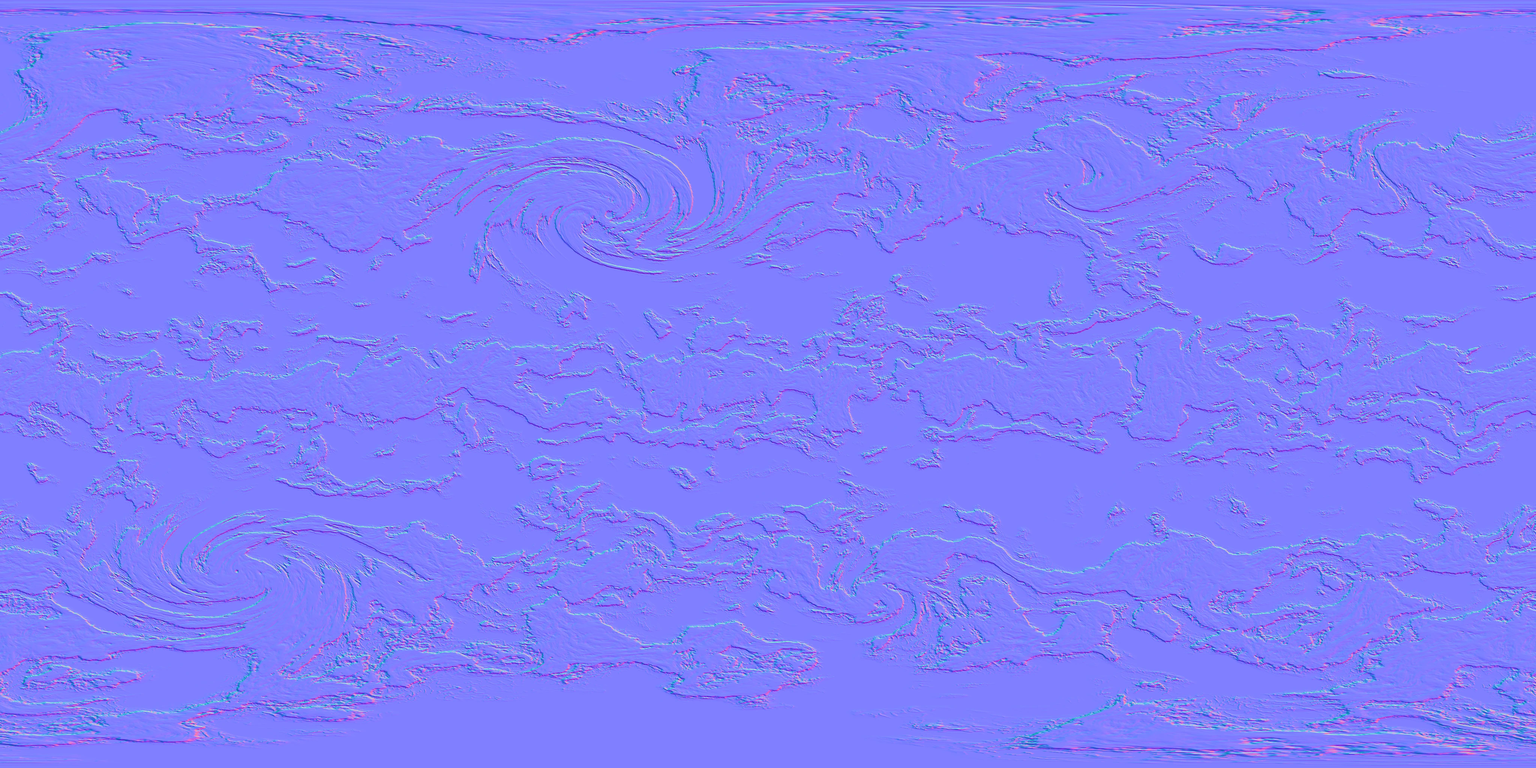
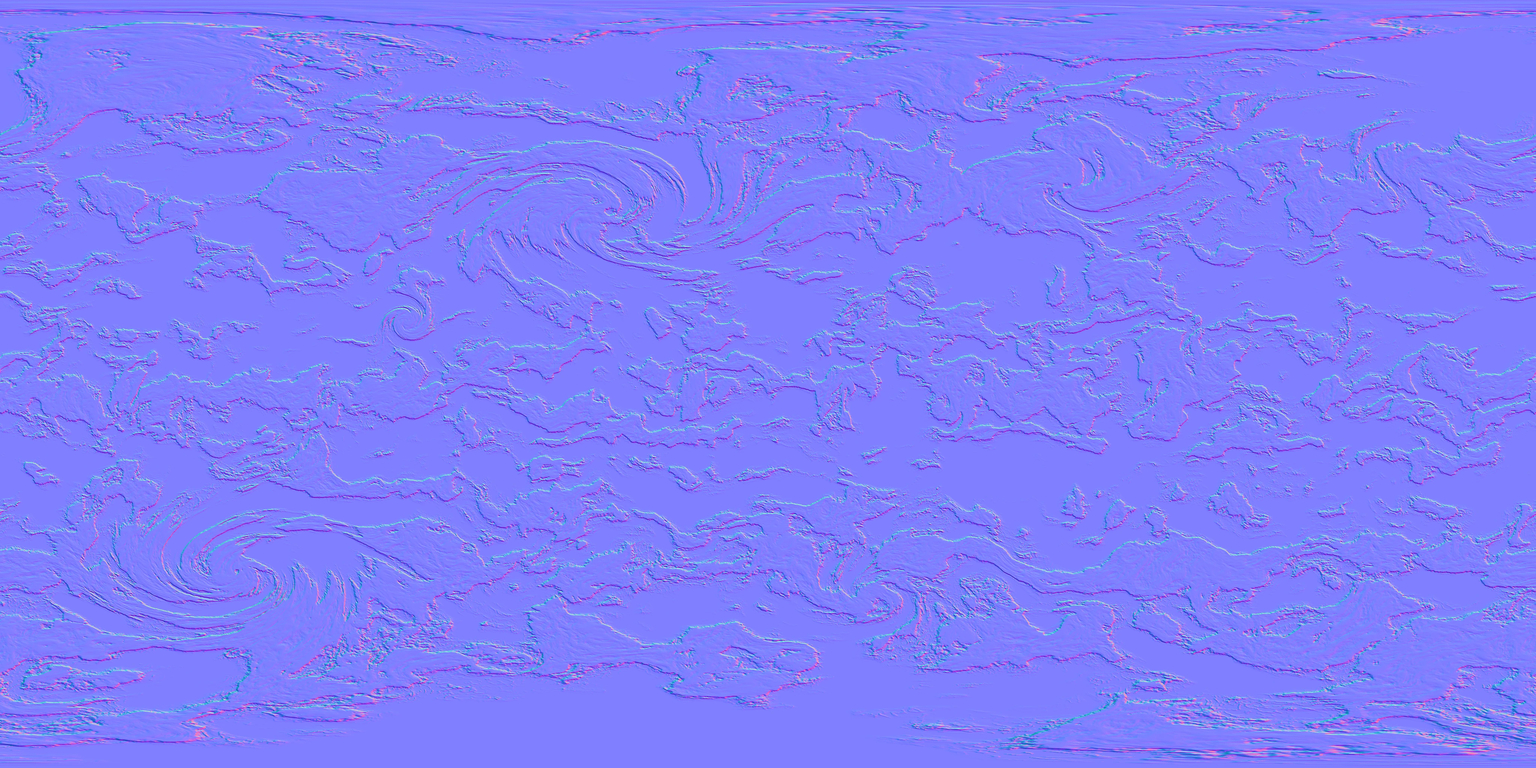
Clouds: wandering, softer zones; equatorial thunderstorm clusters; a looser northern low; a round tropical storm
Claude-Session: https://claude.ai/code/session_01K8R5kqduobr76DoBg9xGr3

diff --git a/tools/planets/clouds.py b/tools/planets/clouds.py
@@ -63,11 +63,14 @@ def arc_distance(p: np.ndarray, a: tuple[float, float], b: tuple[float, float]):
     return dist, np.clip(from_a / length, 0, 1)
 
 
-def zones(lat: np.ndarray) -> np.ndarray:
+def zones(lat: np.ndarray, clusters: np.ndarray) -> np.ndarray:
     """Earth-like circulation: a cloudy band at the equator, clearer subtropics (the calm
-    high-pressure belts near 25°), and stormy mid-latitudes."""
+    high-pressure belts near 25°), and stormy mid-latitudes. These are averages, not what any
+    one day looks like, so the caller lets `lat` wander; the equatorial band comes in
+    thunderstorm clusters with gaps between them."""
     a = np.abs(lat)
-    return 0.25 * np.exp(-((lat / 7) ** 2)) - 0.2 * np.exp(-(((a - 25) / 8) ** 2)) + 0.15 * np.exp(-(((a - 50) / 10) ** 2))
+    equator = 0.25 * np.exp(-((lat / 8) ** 2)) * (0.2 + 1.6 * clusters)
+    return equator - 0.2 * np.exp(-(((a - 25) / 9) ** 2)) + 0.15 * np.exp(-(((a - 50) / 12) ** 2))
 
 
 def make_clouds(g, seed: int, cover: float, storms: list[dict], veil: tuple[float, float] = (0.0, 0.0), zoning: float = 0.0, log=print):
@@ -77,7 +80,8 @@ def make_clouds(g, seed: int, cover: float, storms: list[dict], veil: tuple[floa
 
     Each storm: lat, lon, ax, ay (its extent, degrees), swirl (turn at the centre, radians:
     + anticlockwise), and optionally inflow (how tightly the arms wind), strength (how much
-    cloud it gathers), eye (how clear its centre is), face (direction of its cloud shield, radians)
+    cloud it gathers), eye (how clear its centre is), face (direction of its cloud shield, radians), round
+    (a symmetric tropical storm, not a comma)
     and front: the (lat, lon) the trailing cold front reaches."""
     n = [Noise3(seed * 7 + i) for i in range(8)]
     lat = np.degrees(g.lat)
@@ -94,13 +98,18 @@ def make_clouds(g, seed: int, cover: float, storms: list[dict], veil: tuple[floa
     warp = np.stack([fbm(n[0], q * 2.5 + 3, 4), fbm(n[1], q * 2.5 + 9, 4), fbm(n[2], q * 2.5 + 17, 4)], -1)
 
     # Weather systems: where cloud gathers at all.
-    raw = fbm(n[3], qz * 3.2 + warp * 1.6, octaves=6) + zoning * zones(lat) / 0.25
+    # The zones' edges wander by several degrees, and storms and fronts cut across them.
+    wander = lat + 28 * fbm(n[1], g.xyz * 1.6 + 40, 3)
+    clusters = smoothstep(-0.05, 0.3, fbm(n[2], q * 7 + warp + 60, 4))
+    raw = fbm(n[3], qz * 3.2 + warp * 1.6, octaves=6) + zoning * zones(wander, clusters) / 0.25
     rough = fbm(n[6], q * 12 + warp * 2, 4)
     for s in storms:
         # A comma, not a pinwheel: the cloud shield wraps one side, a dry slot cuts the other.
         d, _ = storm_coords(q, s)
         c, east, north = tangent_basis(s["lat"], s["lon"])
         side = 0.5 + 0.5 * np.cos(np.arctan2(q @ north, q @ east) - s.get("face", 0.0))
+        if s.get("round"):  # a tropical storm is symmetric, cloud all the way round
+            side = np.ones_like(side)
         k = s.get("strength", 1.0)
         raw = raw + k * (0.22 * np.exp(-(d**2) * 1.8) * (0.3 + 0.7 * side) - 0.15 * np.exp(-(d**2) * 4) * (1 - side))
         raw = raw - 0.4 * s.get("eye", 1.0) * np.exp(-((d / 0.06) ** 2))

diff --git a/tools/planets/hyang_wan.py b/tools/planets/hyang_wan.py
@@ -249,16 +249,19 @@ def hyang_clouds(g):
     """Rain bands wound into a few cyclones, over a thin grey overcast ("everything is greyed
     out") that dulls the islands without hiding them."""
     # Storms at different stages along the mid-latitude storm tracks: mature commas trailing
-    # cold fronts, young waves just kinking a front, an old one unwinding. A mature one sits
+    # cold fronts (looser than a hurricane), young waves just kinking a front, an old one
+    # unwinding, and one tropical storm. A mature one sits
     # north-west of Mulgogi, in view. Positive swirl turns anticlockwise (the north's cyclones).
     storms = [
-        dict(lat=40, lon=-38, ax=24, ay=17, swirl=2.0, face=0.8, front=(16, -64)),
+        dict(lat=40, lon=-38, ax=26, ay=16, swirl=1.6, inflow=0.7, face=0.8, front=(16, -64)),
+        # A tropical storm: small, tight and round, with a clear eye.
+        dict(lat=15, lon=-85, ax=6, ay=6, swirl=2.6, inflow=1.4, eye=1.3, strength=4.0, round=True),
         dict(lat=46, lon=70, ax=14, ay=10, swirl=1.0, inflow=0.5, strength=0.7, eye=0, face=0.5, front=(30, 44)),
         dict(lat=-44, lon=-125, ax=22, ay=16, swirl=-1.9, face=-0.8, front=(-20, -150)),
         dict(lat=58, lon=165, ax=18, ay=14, swirl=1.3, inflow=0.4, strength=0.6, eye=0.3),
         dict(lat=-50, lon=25, ax=13, ay=10, swirl=-1.0, inflow=0.5, strength=0.7, eye=0, front=(-34, 2)),
     ]
-    return make_clouds(g, SEED, cover=0.38, storms=storms, veil=(0.25, 0.42), zoning=0.3)
+    return make_clouds(g, SEED, cover=0.38, storms=storms, veil=(0.25, 0.42), zoning=0.2)
 
 
 def save_clouds(out: Path, clouds, thickness) -> None:
